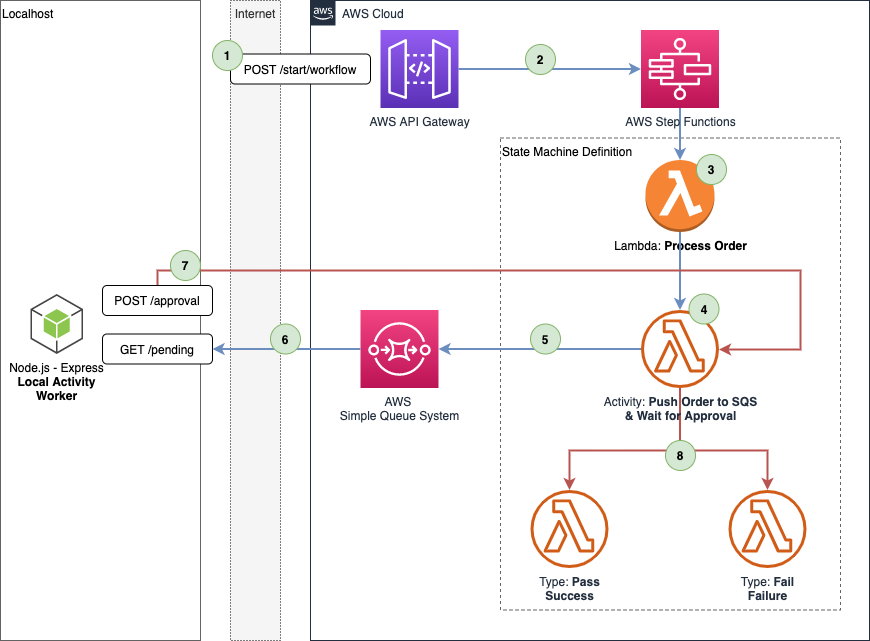
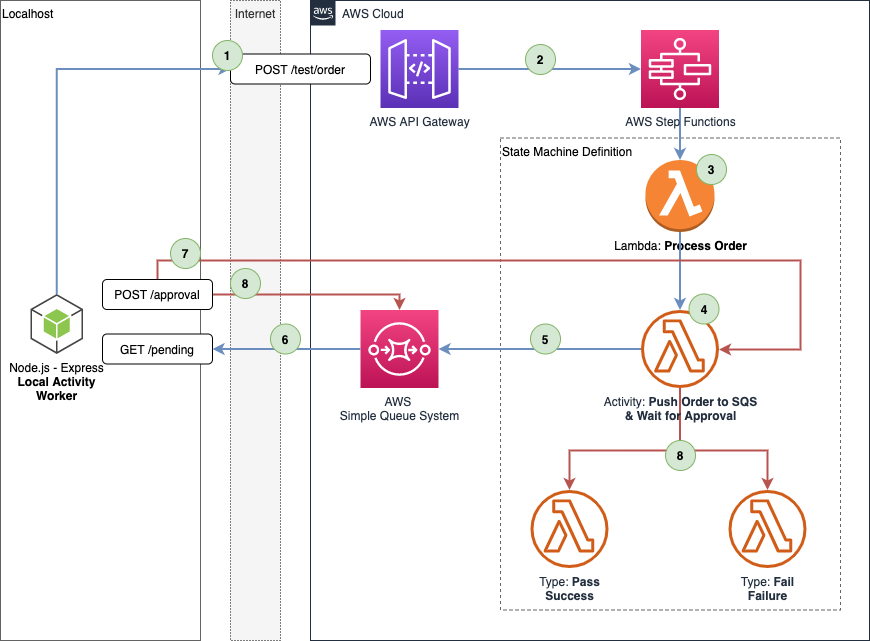
Update documentation

Changed region(s): [[0.1241, 0.3744, 0.931, 0.4992], [0.0621, 0.0936, 0.0931, 0.4368], [0.2793, 0.0936, 0.4034, 0.1248]]

diff --git a/src/workflows/approval_workflow/README.md b/src/workflows/approval_workflow/README.md
@@ -1,5 +1,5 @@
 # Backup Workflow
-> ⚠ Building this stack will generate cost in your billing dashboard, use it ONLY IF you understand the consequences ⚠
+> ⚠ Building this stack will generate costs in your billing dashboard, use it ONLY IF you understand the consequences ⚠
 
 This is a step functions workflow that demonstrates how you can implement signaling (pausing and processing external input) with the help of callbacks and AWS SQS.
 
@@ -9,14 +9,16 @@ This is a step functions workflow that demonstrates how you can implement signal
 
 This workflow is more complex than `backup_workflow`, let's break down what's happening here:
 
-1. Using the [AWS API Gateway]() we create an endpoint that will receive an `HTTP POST` request on the endpoint `https://<whatever_url_we_configure>/start/workflow`
-2. The API endpoint will kickoff the step functions workflow execution
-3. The starting point of the workflow / state machine is a [Lambda Function]() that will simulate an order being processed by some backend system
-4. The state machine then transitions to a task that will push a message to SQS containing a `Task Token` and will pause while it waits to receive a success or fail callback
-5. [SQS]() will receive the message and push it to the designated queue
-6. Our local mini [Express]() app will expose a local endpoint and when it receives an `HTTP GET` request to `http://localhost:<port>/pending` it will pull a message from SQS and store it locally
-7. Upon calling the locally exposed endpoint `http://localhost:<port>/approve` our app will send a `SendSuccess` directory to our state machine ordering it to move ot the next step
-8. Based on the callback receive the state machine will move to Success or Failure 
+1. Using the [AWS API Gateway](https://aws.amazon.com/api-gateway/) we create an endpoint that will receive an `HTTP POST` request on the endpoint `https://<whatever_url_we_configure>/test/order`
+2. The API endpoint will kickoff the step functions workflow execution simulating a new order in the system
+3. The starting point of the workflow / state machine is a [Lambda Function](https://aws.amazon.com/lambda/) that will simulate an order being processed by some backend system
+4. The state machine then transitions to a task that will push a message to SQS with a `Task Token` and will pause while it waits to receive a success or fail callback
+5. [SQS](https://aws.amazon.com/sqs/) will receive the message and push it to the designated queue
+6. Our local [Express](https://expressjs.com/) controller app will expose a few local endpoints and when it receives an `HTTP GET` request to `http://localhost:<port>/pending` it will pull a message from SQS for processing
+7. Upon calling the locally exposed endpoint `http://localhost:<port>/approval` our app will send a `SendSuccess` signal to our state machine ordering it to move ot the next step
+8. We will delete that message from the queue and ased on the callback received by the state machine will move to Success (we are not handling a failure scenario)
+
+This is not a **production ready architecture**. This is designed for educational / illustrative purposes only.
 
 ## Structure
 
@@ -86,11 +88,16 @@ api_url = https://<unique_id>.execute-api.eu-west-1.amazonaws.com/test
 order_process_lambda_arn = arn:aws:lambda:eu-west-1:<account_numb>:function:PROCESS_ORDER-helped-skylark
 orders_queue_sqs_url = https://sqs.eu-west-1.amazonaws.com/<account_numb>/pending_orders_queue.fifo
 sfn_state_machine_arn = arn:aws:states:eu-west-1:<account_numb>:stateMachine:ApprovalWorkflowStateMachine-helped-skylark
+
+# I removed the account numbers and replaced them with <placeholders> for privacy / security purposes
 ```
 
 ### Controller App
 
-Replace the environment variable values with the values from the output above and run `npm start`. Example:
+The controller app is a simple web app build with `Node.js and Express`. The app will be your interface to this workflow. 
+From the web app you can simulate a new order triggering a new state machine execution and you can approve an order by fetching it from SQS and resuming the state machine.
+
+To run the controller app, replace the environment variable values below with the values from the output above and run `npm start`. Example:
 
 ```sh
 env AWS_REGION="eu-west-1" \
@@ -99,8 +106,3 @@ env API_URL="https://<unique_id>.execute-api.eu-west-1.amazonaws.com/test/order"
 env SFN_ARN="arn:aws:states:eu-west-1:<account_numb>:stateMachine:ApprovalWorkflowStateMachine-helped-skylark" \
 npm start
 ```
-
-## References
-
-- [https://docs.aws.amazon.com/sdk-for-javascript/v2/developer-guide/loading-node-credentials-shared.html](https://docs.aws.amazon.com/sdk-for-javascript/v2/developer-guide/loading-node-credentials-shared.html)
-- [https://docs.aws.amazon.com/sdk-for-javascript/v2/developer-guide/sqs-examples-send-receive-messages.html](https://docs.aws.amazon.com/sdk-for-javascript/v2/developer-guide/sqs-examples-send-receive-messages.html)
